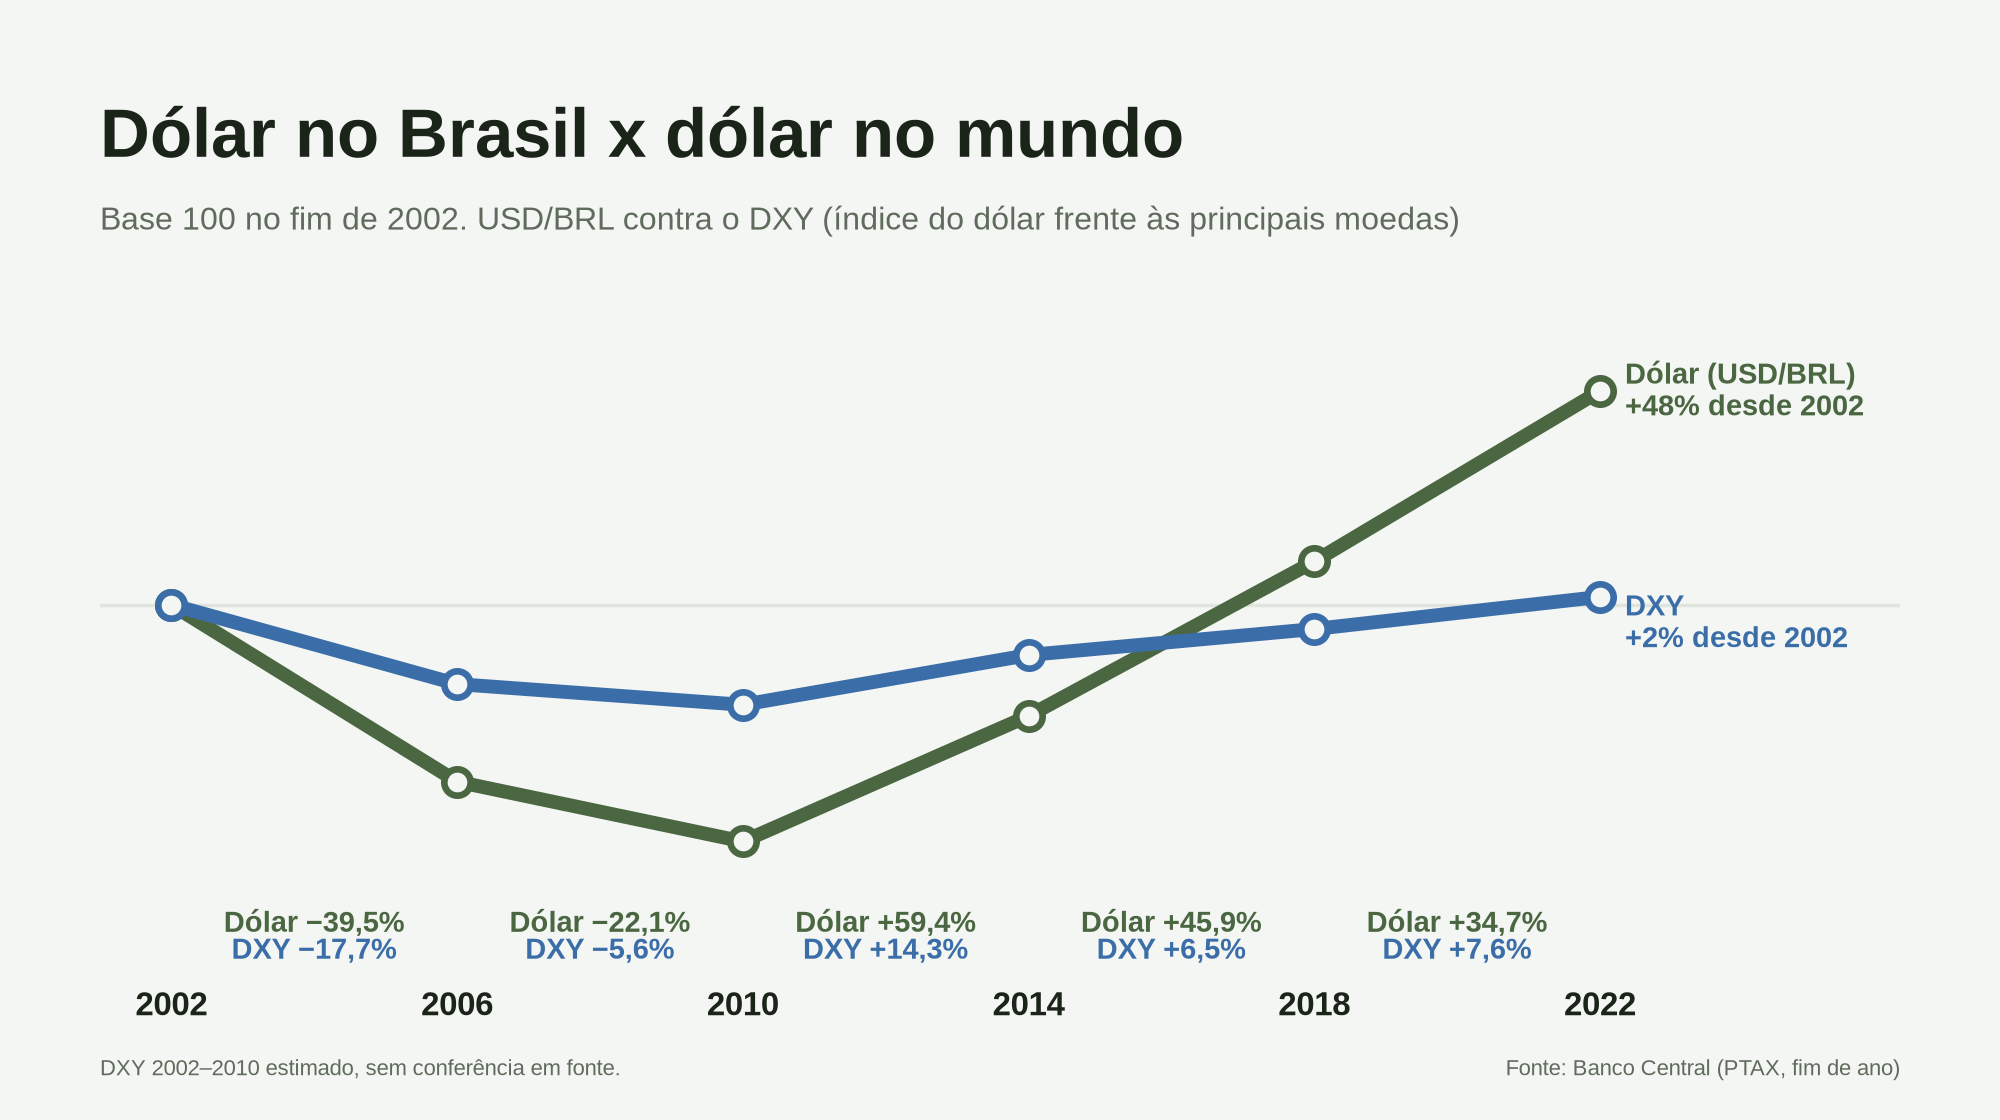
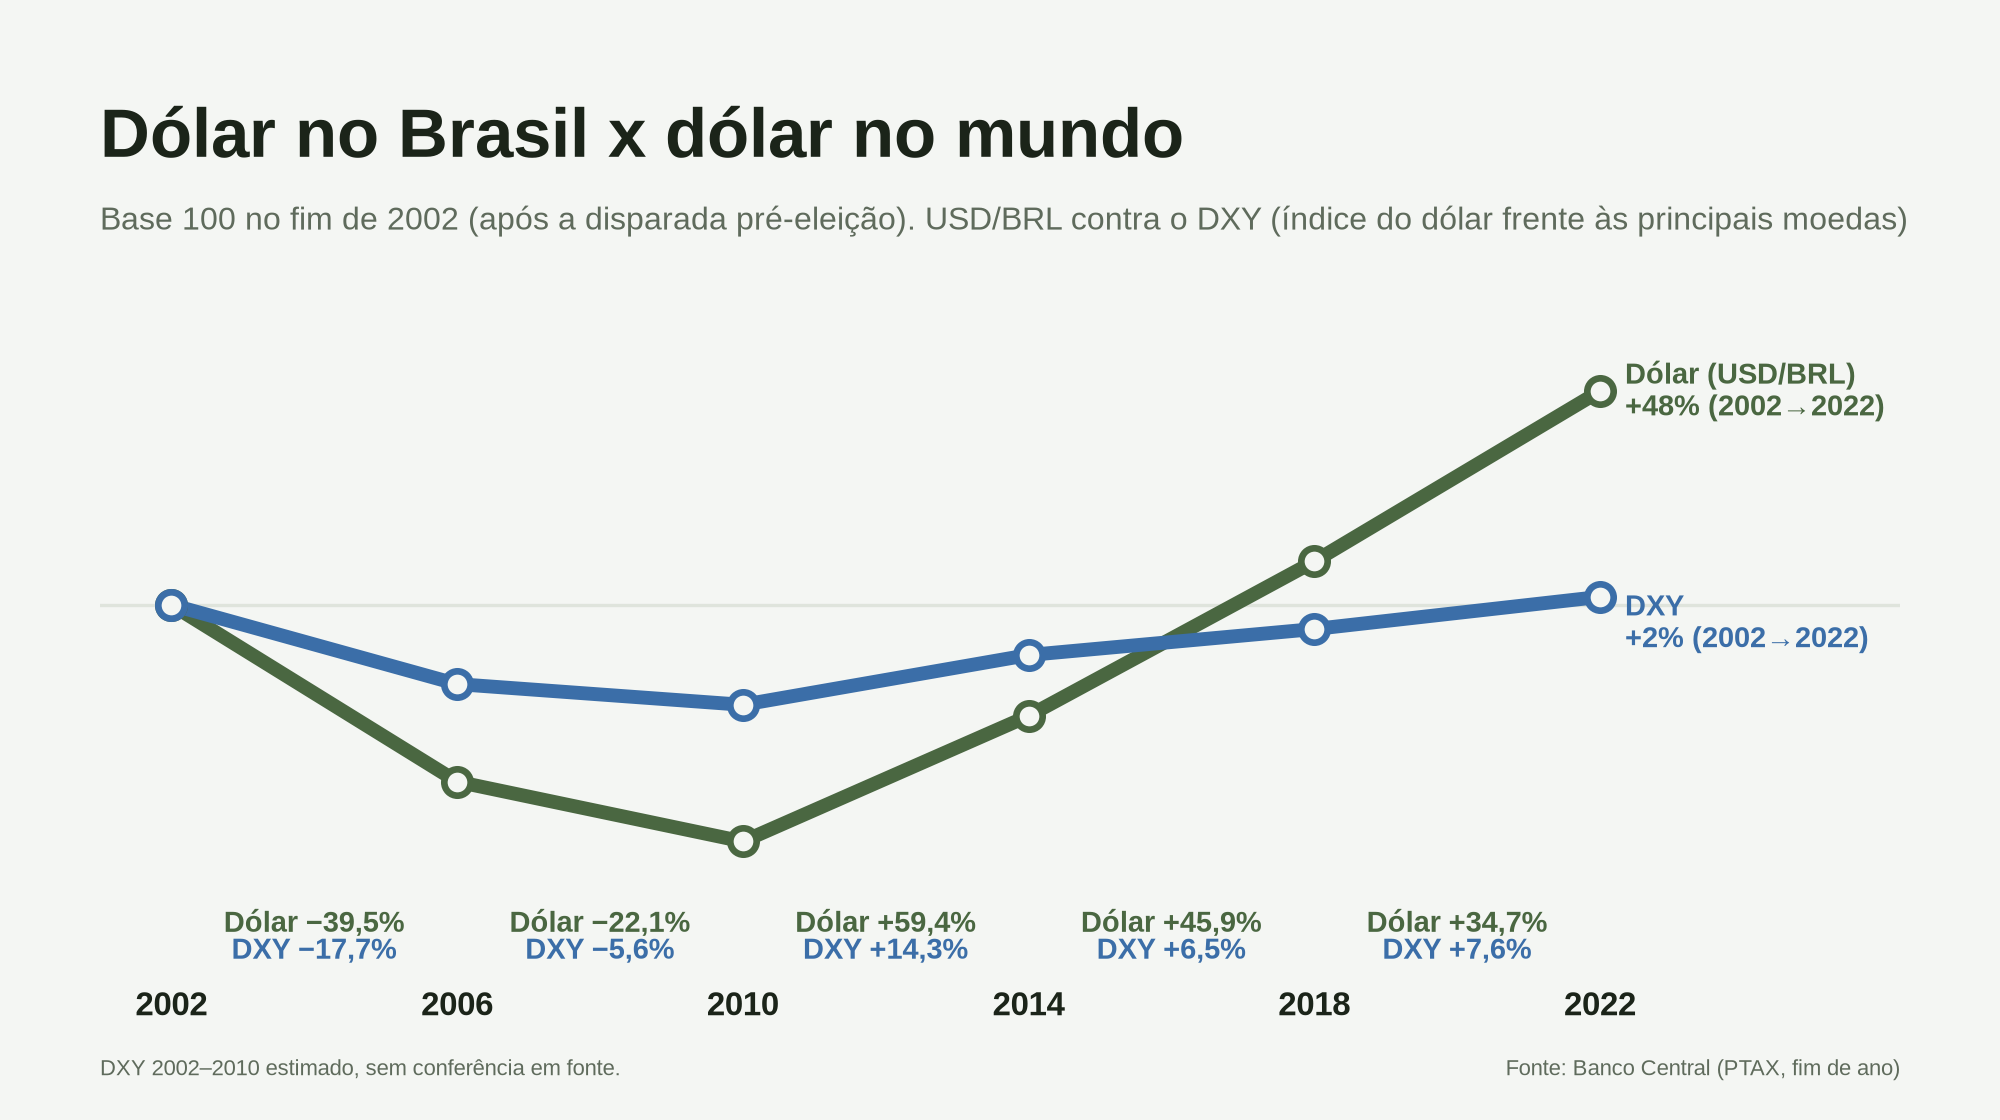
Explicita janela do comparativo dólar x DXY (fim de 2002 a fim de 2022)
Claude-Session: https://claude.ai/code/session_0199Y78iJYXbJq94ojXAjU9F

Changed region(s): [[0.217, 0.1875, 0.961, 0.2188], [0.837, 0.3438, 0.961, 0.375], [0.837, 0.5625, 0.93, 0.5938]]

diff --git a/dolar_pos_eleicao.py b/dolar_pos_eleicao.py
@@ -87,7 +87,7 @@ fig.savefig("dolar_ciclo_4_anos.png", facecolor=BG); plt.close(fig)
 dxy = {2002: 101.7, 2006: 83.7, 2010: 79.0, 2014: 90.3, 2018: 96.2, 2022: 103.5}
 BLUE = "#3b6ea8"
 fig, ax = base("Dólar no Brasil x dólar no mundo",
-               "Base 100 no fim de 2002. USD/BRL contra o DXY (índice do dólar frente às principais moedas)")
+               "Base 100 no fim de 2002 (após a disparada pré-eleição). USD/BRL contra o DXY (índice do dólar frente às principais moedas)")
 ax.set_ylim(20, 165)
 brl = [fim_ano[a] / fim_ano[2002] * 100 for a in anos]
 dx = [dxy[a] / dxy[2002] * 100 for a in anos]
@@ -96,9 +96,9 @@ ax.plot(anos, brl, color=UP, lw=5, solid_capstyle="round")
 ax.plot(anos, dx, color=BLUE, lw=5, solid_capstyle="round")
 ax.scatter(anos, brl, s=90, color=BG, edgecolor=UP, lw=2.4, zorder=3)
 ax.scatter(anos, dx, s=90, color=BG, edgecolor=BLUE, lw=2.4, zorder=3)
-ax.text(2022.35, brl[-1], f"Dólar (USD/BRL)\n{brl[-1]-100:+.0f}% desde 2002".replace("-", "−"), color=UP,
+ax.text(2022.35, brl[-1], f"Dólar (USD/BRL)\n{brl[-1]-100:+.0f}% (2002→2022)".replace("-", "−"), color=UP,
         fontsize=10.5, fontweight="bold", va="center")
-ax.text(2022.35, dx[-1] - 6, f"DXY\n{dx[-1]-100:+.0f}% desde 2002".replace("-", "−"), color=BLUE,
+ax.text(2022.35, dx[-1] - 6, f"DXY\n{dx[-1]-100:+.0f}% (2002→2022)".replace("-", "−"), color=BLUE,
         fontsize=10.5, fontweight="bold", va="center")
 ax.set_xlim(2001, 2026.2)
 for k, a in enumerate(anos[:-1]):
